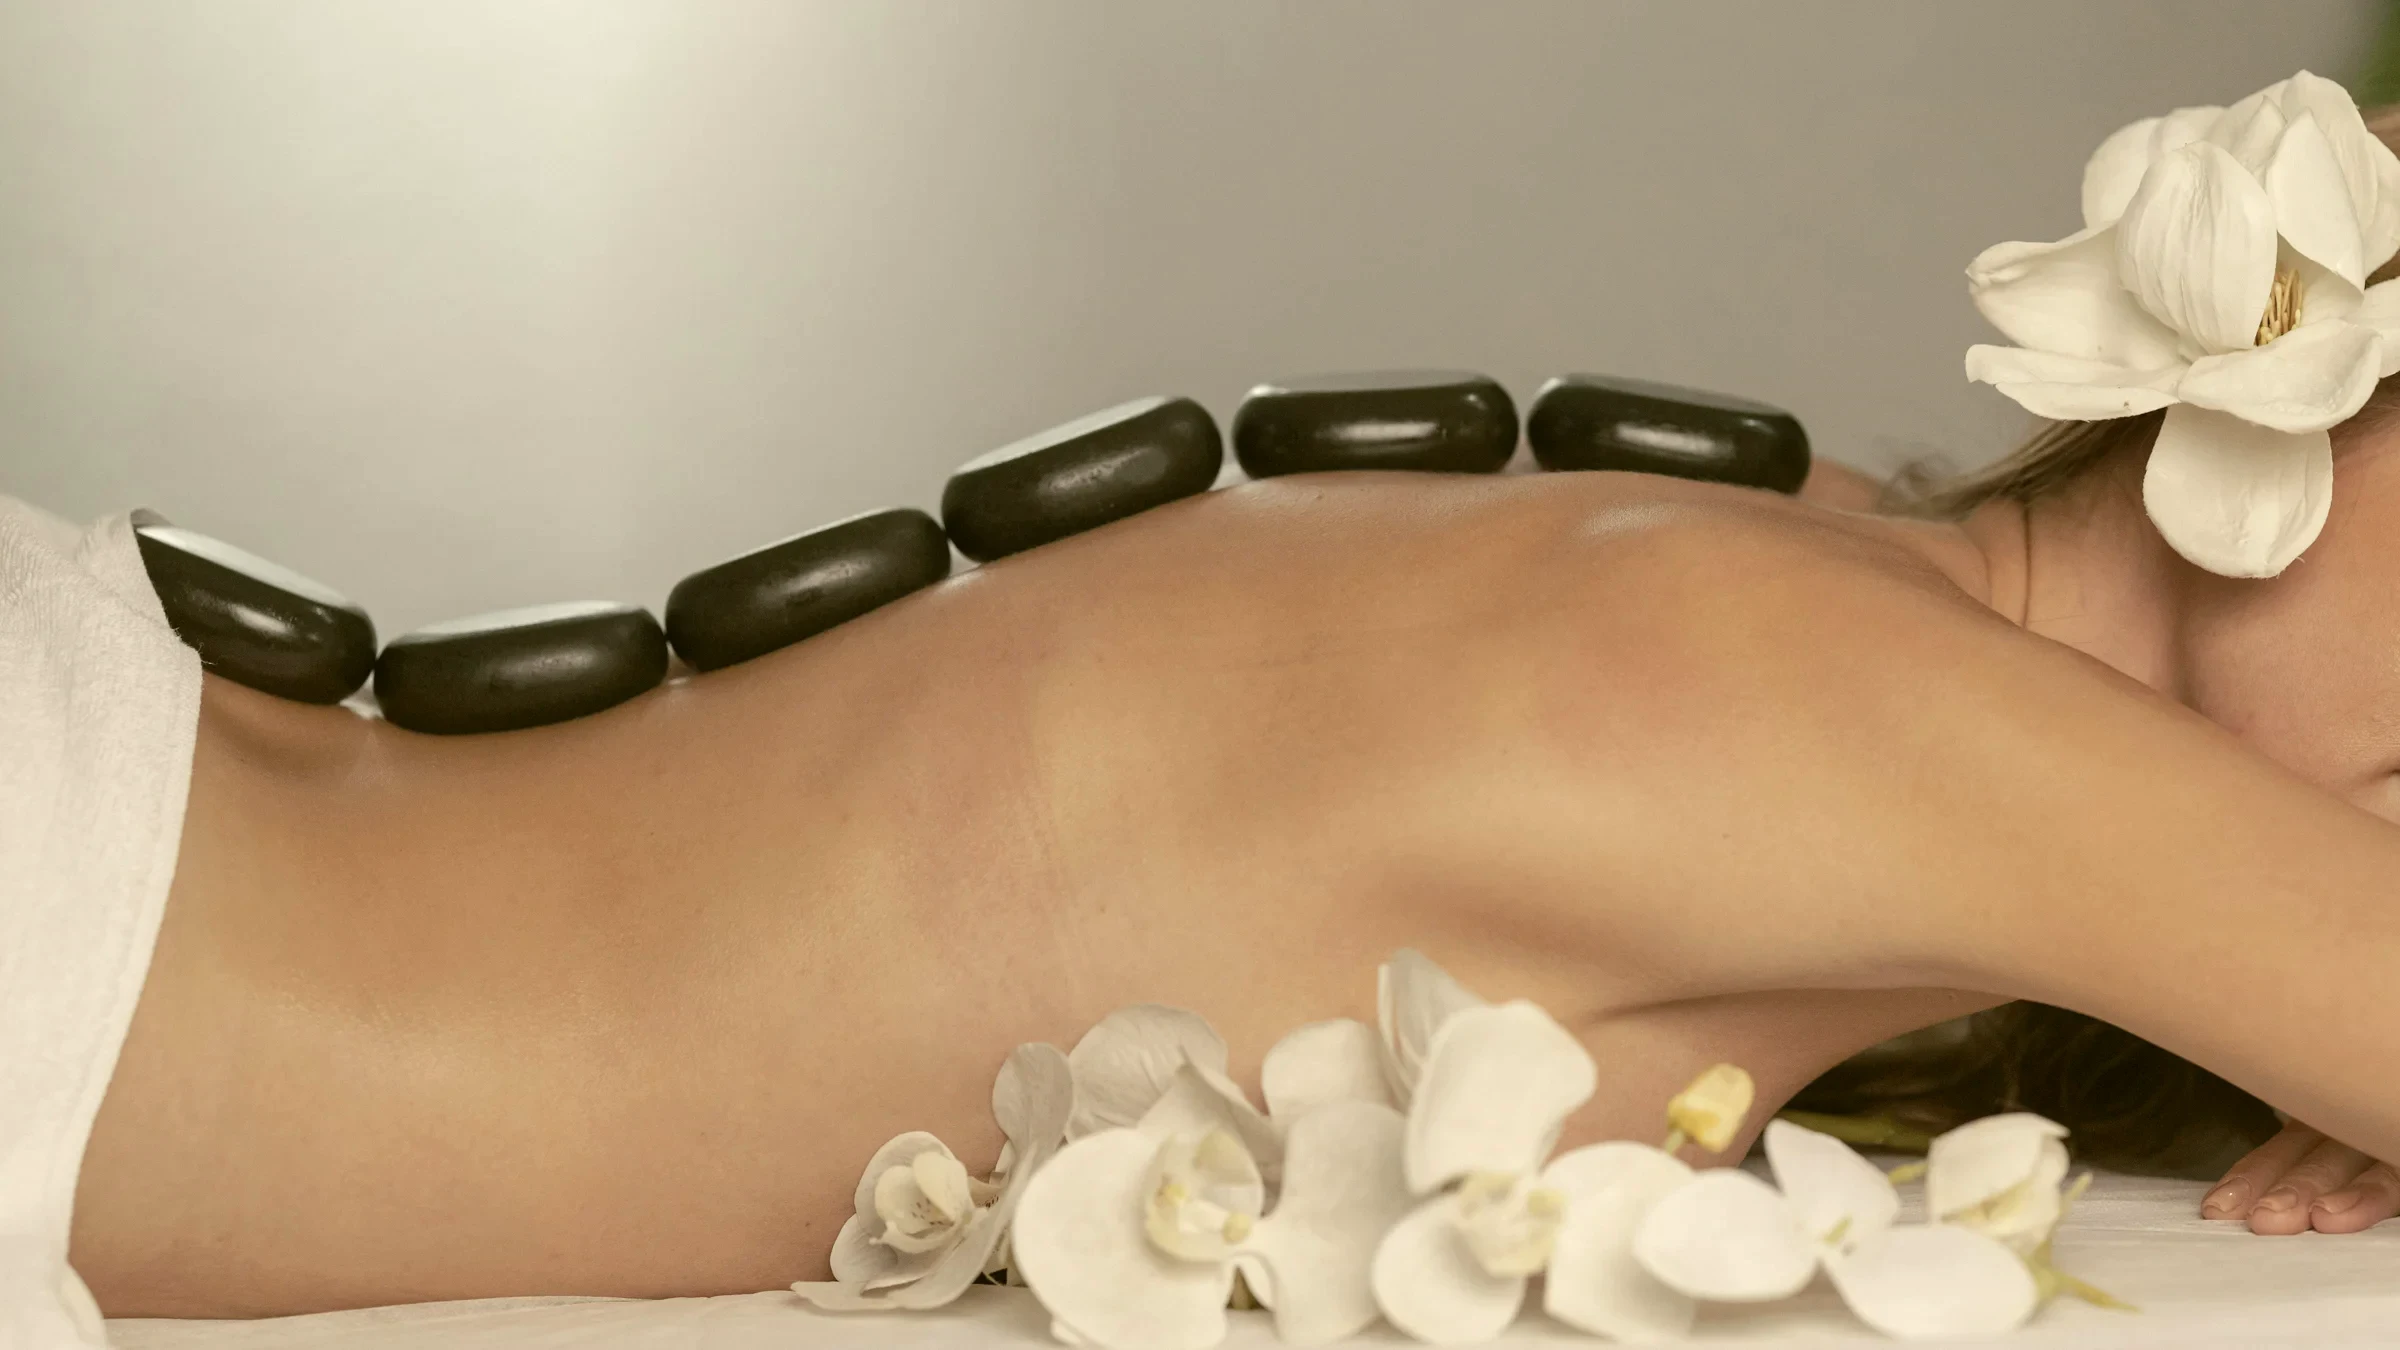
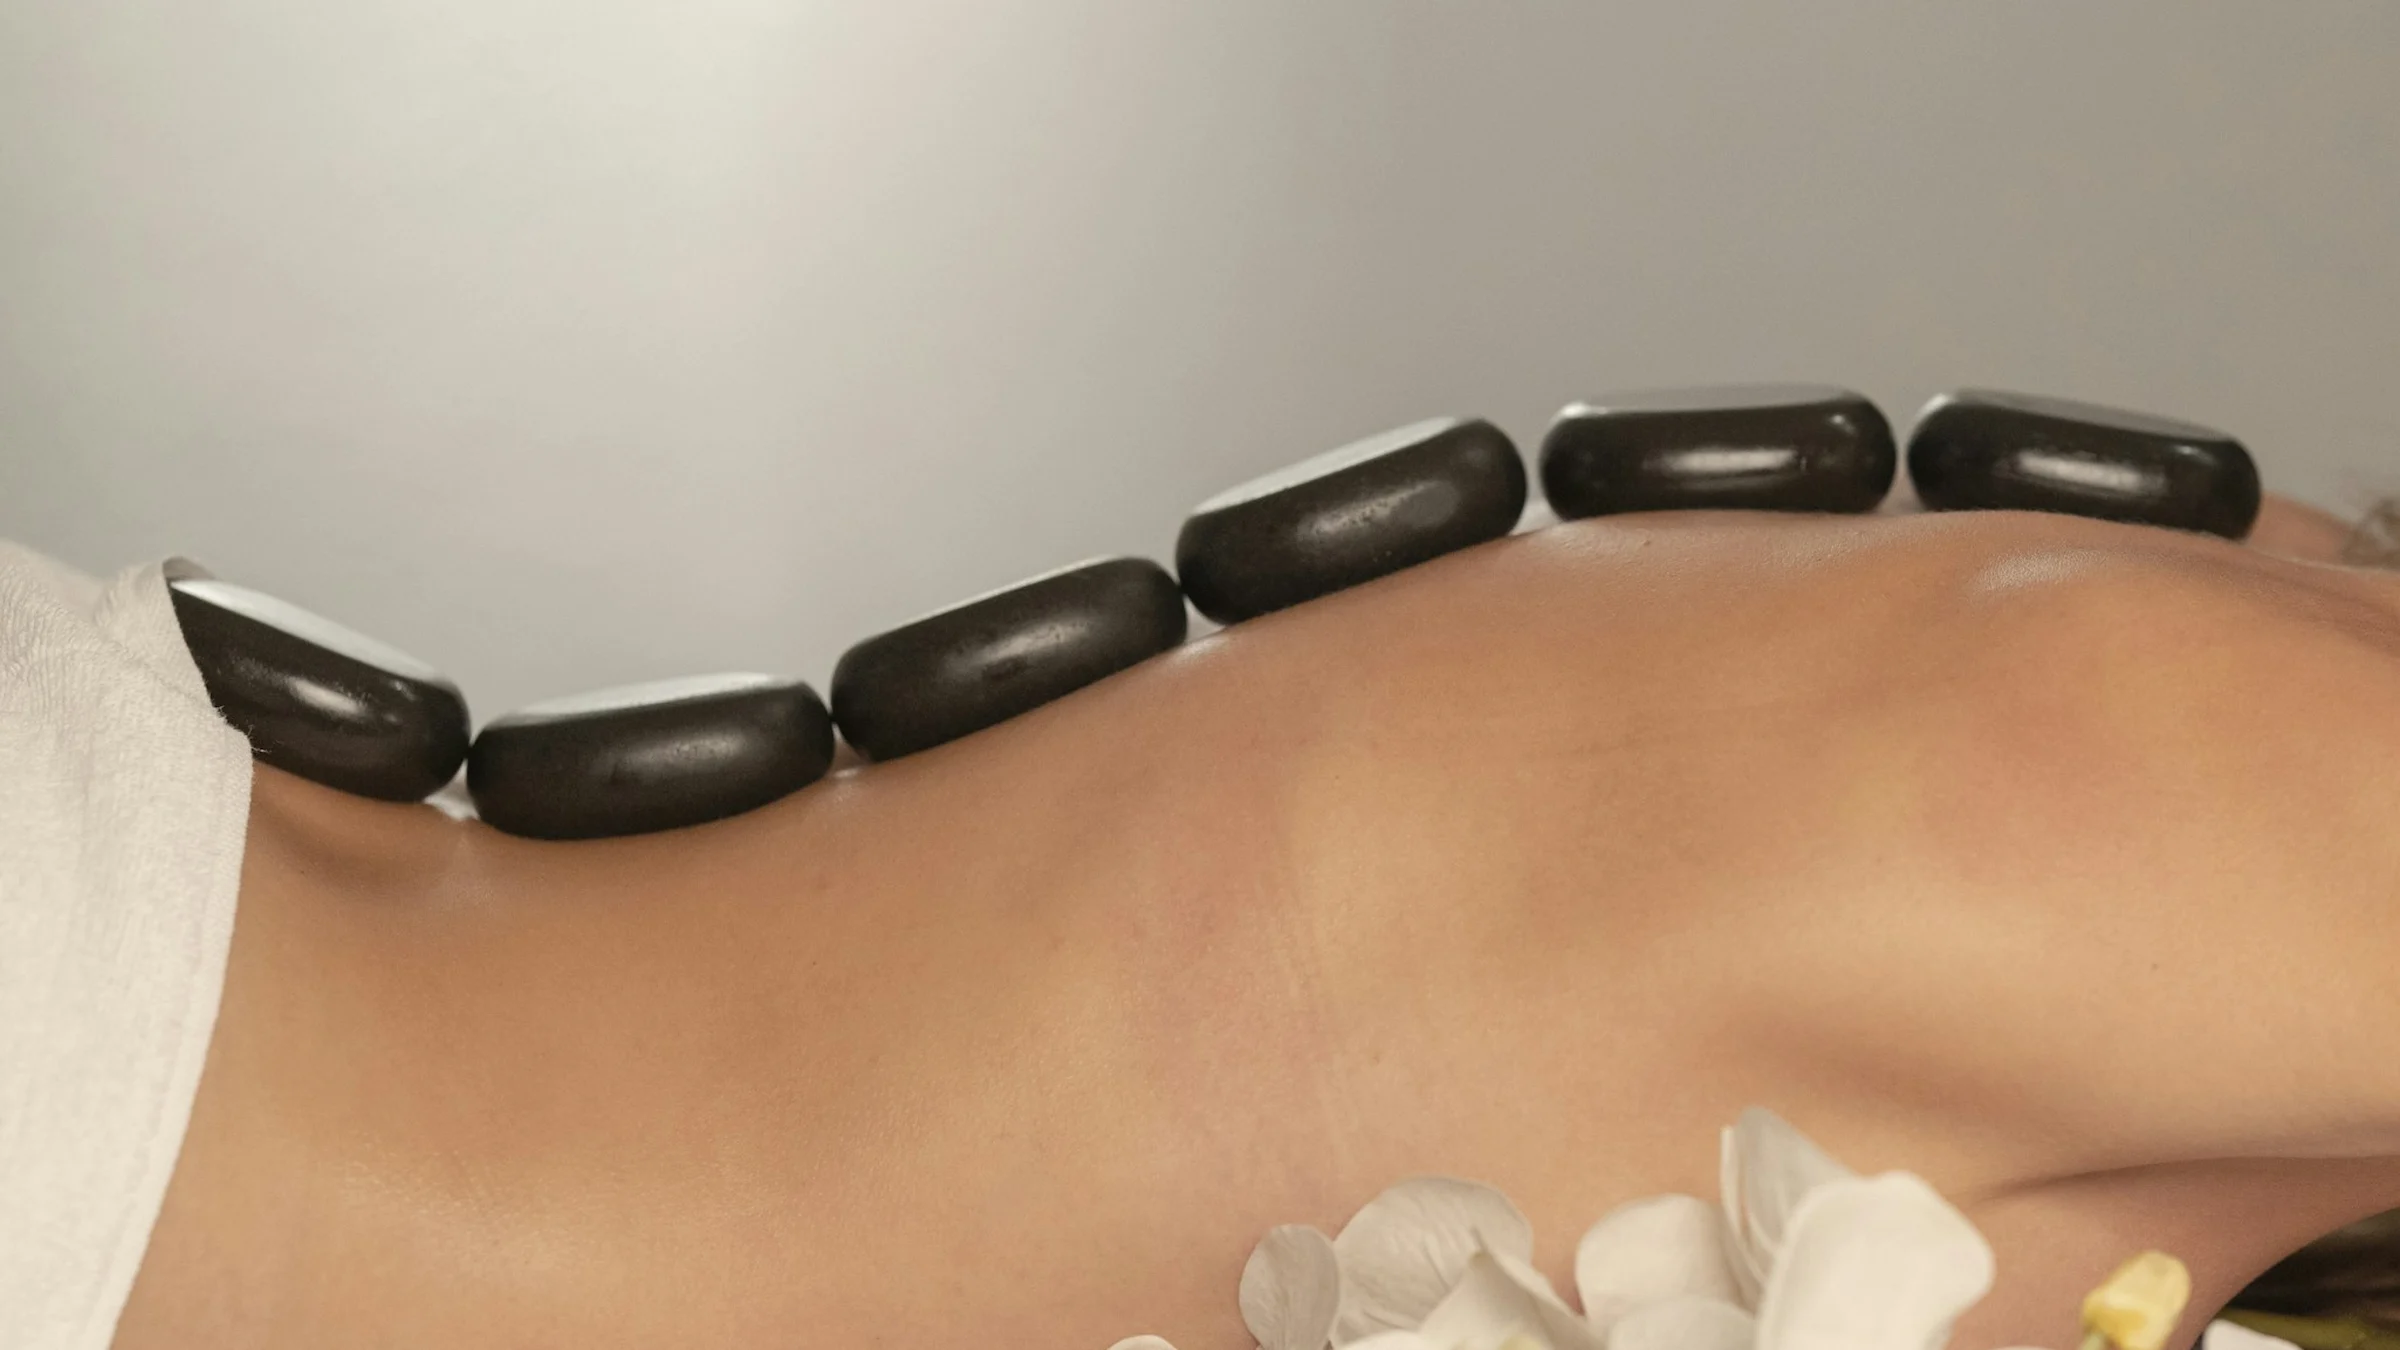
Substitui hero e fotos de apoio por closes de maos/pedras sem rosto de terceiros e sem oleo

diff --git a/index.html b/index.html
@@ -18,7 +18,7 @@
   <meta property="og:title" content="Evo Care — Massoterapia Integrativa &amp; Home Care">
   <meta property="og:description" content="Atendimento Home Care em São Paulo, Ilhabela e Ibiza. Liberação miofascial, massagem com pedras quentes, massagem relaxante e drenagem linfática.">
   <meta property="og:url" content="https://evo-home-care.vercel.app/">
-  <meta property="og:image" content="https://evo-home-care.vercel.app/img/og-evo-care-v2.jpg">
+  <meta property="og:image" content="https://evo-home-care.vercel.app/img/og-evo-care-v2.jpg?v=3">
   <meta property="og:image:type" content="image/jpeg">
   <meta property="og:image:width" content="1200">
   <meta property="og:image:height" content="630">
@@ -26,10 +26,10 @@
   <meta name="twitter:card" content="summary_large_image">
   <meta name="twitter:title" content="Evo Care — Massoterapia Integrativa & Home Care">
   <meta name="twitter:description" content="Atendimento Home Care em São Paulo, Ilhabela e Ibiza, por Rágila Nunes.">
-  <meta name="twitter:image" content="https://evo-home-care.vercel.app/img/og-evo-care-v2.jpg">
+  <meta name="twitter:image" content="https://evo-home-care.vercel.app/img/og-evo-care-v2.jpg?v=3">
 
-  <link rel="preload" as="image" href="img/hero-spa-mobile.webp" media="(max-width: 768px)" fetchpriority="high">
-  <link rel="preload" as="image" href="img/hero-spa-4k.webp" media="(min-width: 769px)" fetchpriority="high">
+  <link rel="preload" as="image" href="img/hero-spa-mobile.webp?v=3" media="(max-width: 768px)" fetchpriority="high">
+  <link rel="preload" as="image" href="img/hero-spa-4k.webp?v=3" media="(min-width: 769px)" fetchpriority="high">
 
   <link rel="preconnect" href="https://fonts.googleapis.com">
   <link rel="preconnect" href="https://fonts.gstatic.com" crossorigin>
@@ -350,7 +350,7 @@
       width: 100%;
       height: 100%;
       object-fit: cover;
-      object-position: 50% 38%;
+      object-position: 50% 50%;
       animation: kenburns 16s var(--ease) 0.8s both;
     }
     @keyframes kenburns { from { transform: scale(1.14); } to { transform: scale(1); } }
@@ -985,9 +985,9 @@
     <section class="hero" id="topo">
       <div class="hero-bg" data-parallax>
         <picture>
-          <source media="(max-width: 768px)" srcset="img/hero-spa-mobile.webp" type="image/webp">
-          <source media="(min-width: 769px)" srcset="img/hero-spa-4k.webp" type="image/webp">
-          <img src="img/hero-spa-4k.jpg" alt="Massoterapia integrativa e spa Home Care — Evo Care" width="3840" height="2160" fetchpriority="high" decoding="async">
+          <source media="(max-width: 768px)" srcset="img/hero-spa-mobile.webp?v=3" type="image/webp">
+          <source media="(min-width: 769px)" srcset="img/hero-spa-4k.webp?v=3" type="image/webp">
+          <img src="img/hero-spa-4k.jpg?v=3" alt="Mãos realizando terapia manual integrativa nas costas — Evo Care Home Care" width="2560" height="1440" fetchpriority="high" decoding="async">
         </picture>
       </div>
 
@@ -1027,7 +1027,7 @@
           <div class="m-shell reveal">
             <article class="m-card">
               <div class="m-photo clip">
-                <img src="img/pedras-quentes-uhd.webp" alt="Pedras quentes vulcânicas alinhadas nas costas para relaxamento profundo" width="2000" height="1500" loading="lazy" decoding="async">
+                <img src="img/pedras-quentes-uhd.webp?v=3" alt="Pedras quentes vulcânicas alinhadas nas costas para relaxamento profundo" width="1600" height="1200" loading="lazy" decoding="async">
                 <span class="m-num">01</span>
               </div>
               <div class="m-body">
@@ -1043,7 +1043,7 @@
           <div class="m-shell reveal">
             <article class="m-card">
               <div class="m-photo clip">
-                <img src="img/liberacao-miofascial-uhd.webp" alt="Mãos fazendo liberação miofascial profunda nas costas" width="2000" height="1500" loading="lazy" decoding="async">
+                <img src="img/liberacao-miofascial-uhd.webp?v=3" alt="Mãos fazendo liberação miofascial profunda nas costas" width="1600" height="1200" loading="lazy" decoding="async">
                 <span class="m-num">02</span>
               </div>
               <div class="m-body">
@@ -1059,7 +1059,7 @@
           <div class="m-shell reveal">
             <article class="m-card">
               <div class="m-photo clip">
-                <img src="img/massagem-relaxante-uhd.webp" alt="Massagem relaxante nas costas com toalha branca" width="2000" height="1500" loading="lazy" decoding="async">
+                <img src="img/massagem-relaxante-uhd.webp?v=3" alt="Massagem relaxante nas costas com toalha branca" width="1600" height="1200" loading="lazy" decoding="async">
                 <span class="m-num">03</span>
               </div>
               <div class="m-body">
@@ -1075,7 +1075,7 @@
           <div class="m-shell reveal">
             <article class="m-card">
               <div class="m-photo clip">
-                <img src="img/drenagem-linfatica-uhd.webp" alt="Drenagem linfática manual com movimentos suaves" width="2000" height="1500" loading="lazy" decoding="async">
+                <img src="img/drenagem-linfatica-uhd.webp?v=3" alt="Drenagem linfática manual com movimentos suaves" width="1600" height="1200" loading="lazy" decoding="async">
                 <span class="m-num">04</span>
               </div>
               <div class="m-body">
@@ -1230,8 +1230,8 @@
     <section class="final">
       <div class="final-bg">
         <picture>
-          <source srcset="img/ambient-botanical-2400.webp" type="image/webp">
-          <img src="img/ambient-botanical.jpg" alt="" width="3840" height="2160" loading="lazy" decoding="async">
+          <source srcset="img/ambient-botanical-2400.webp?v=3" type="image/webp">
+          <img src="img/ambient-botanical.jpg?v=3" alt="" width="2400" height="1350" loading="lazy" decoding="async">
         </picture>
       </div>
       <div class="wrap">
